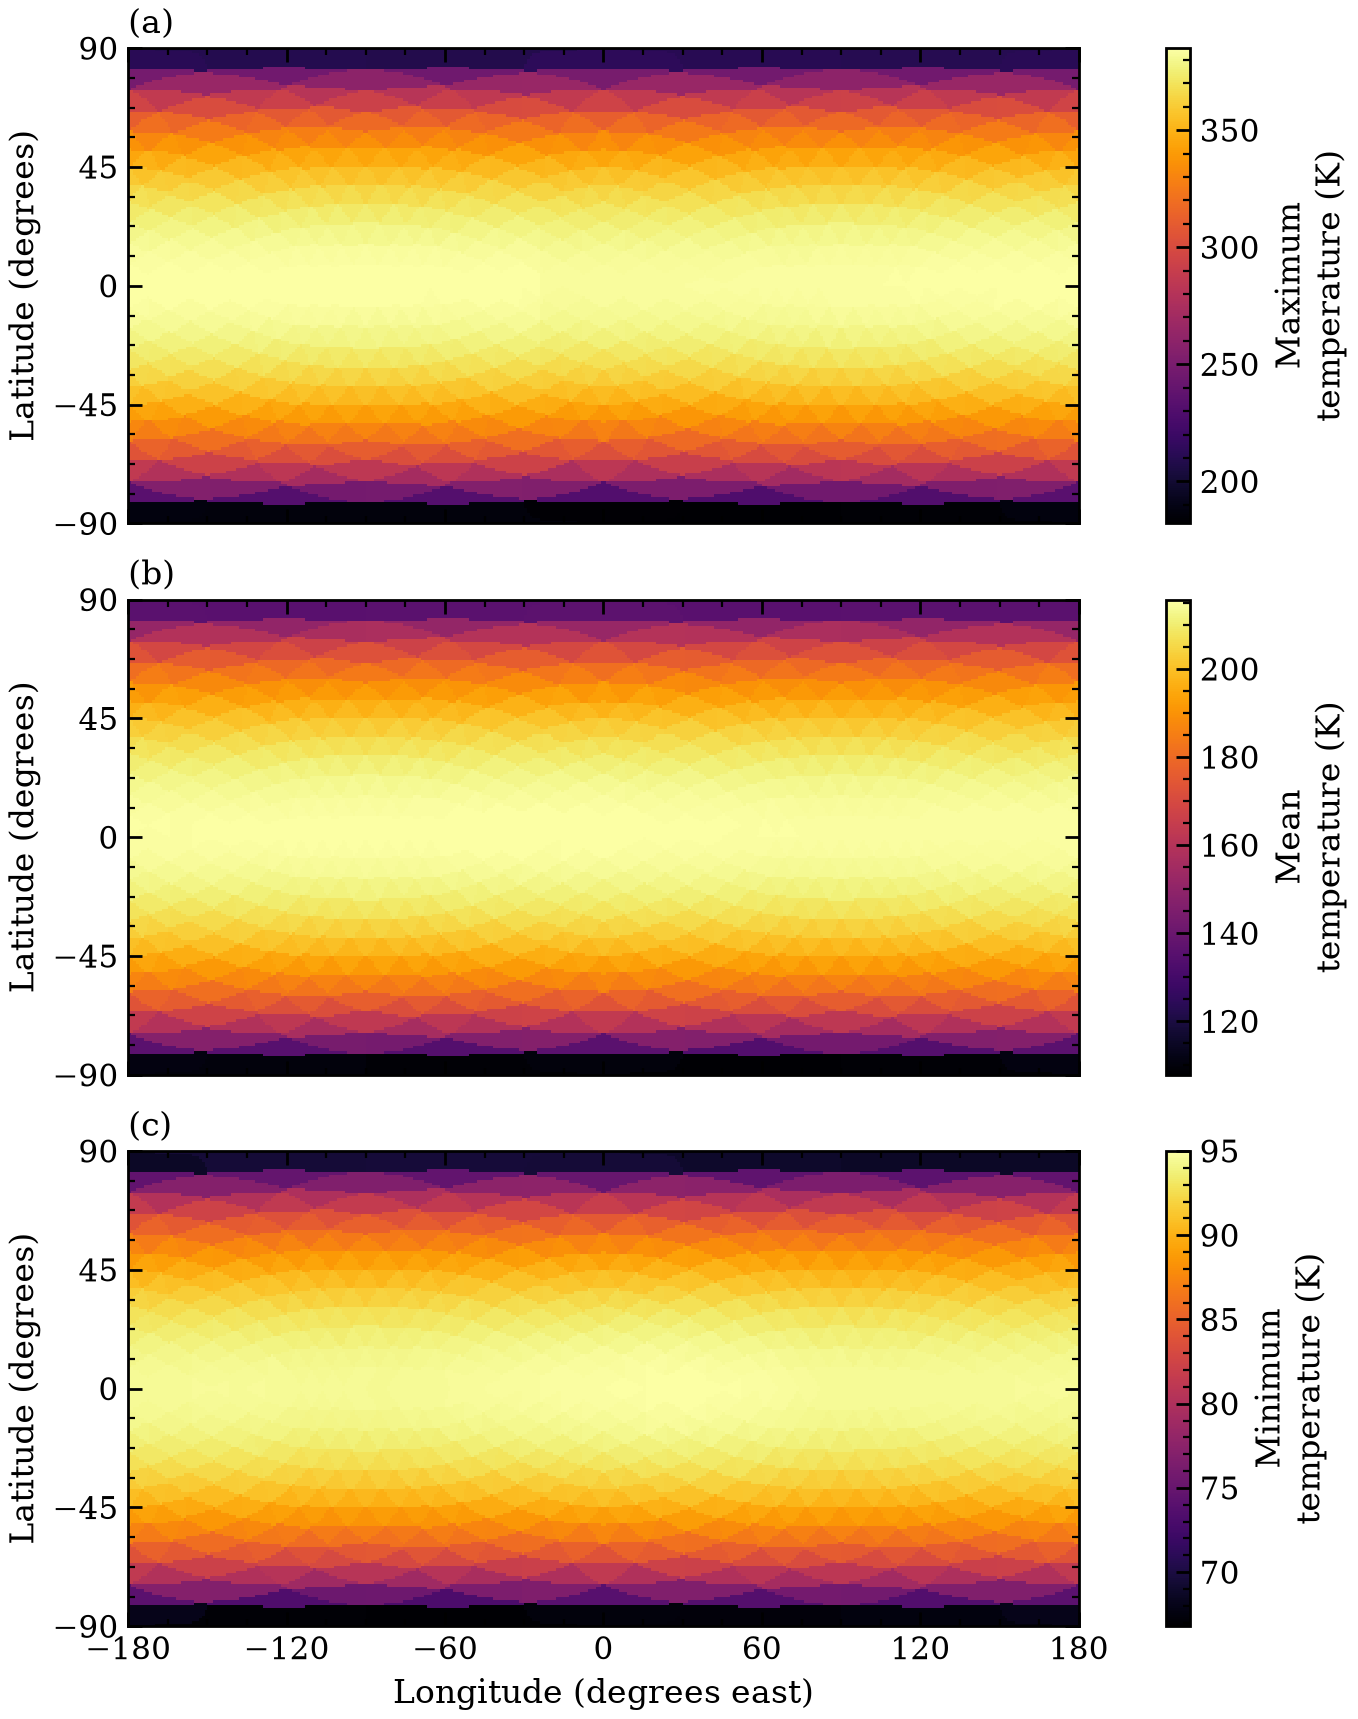
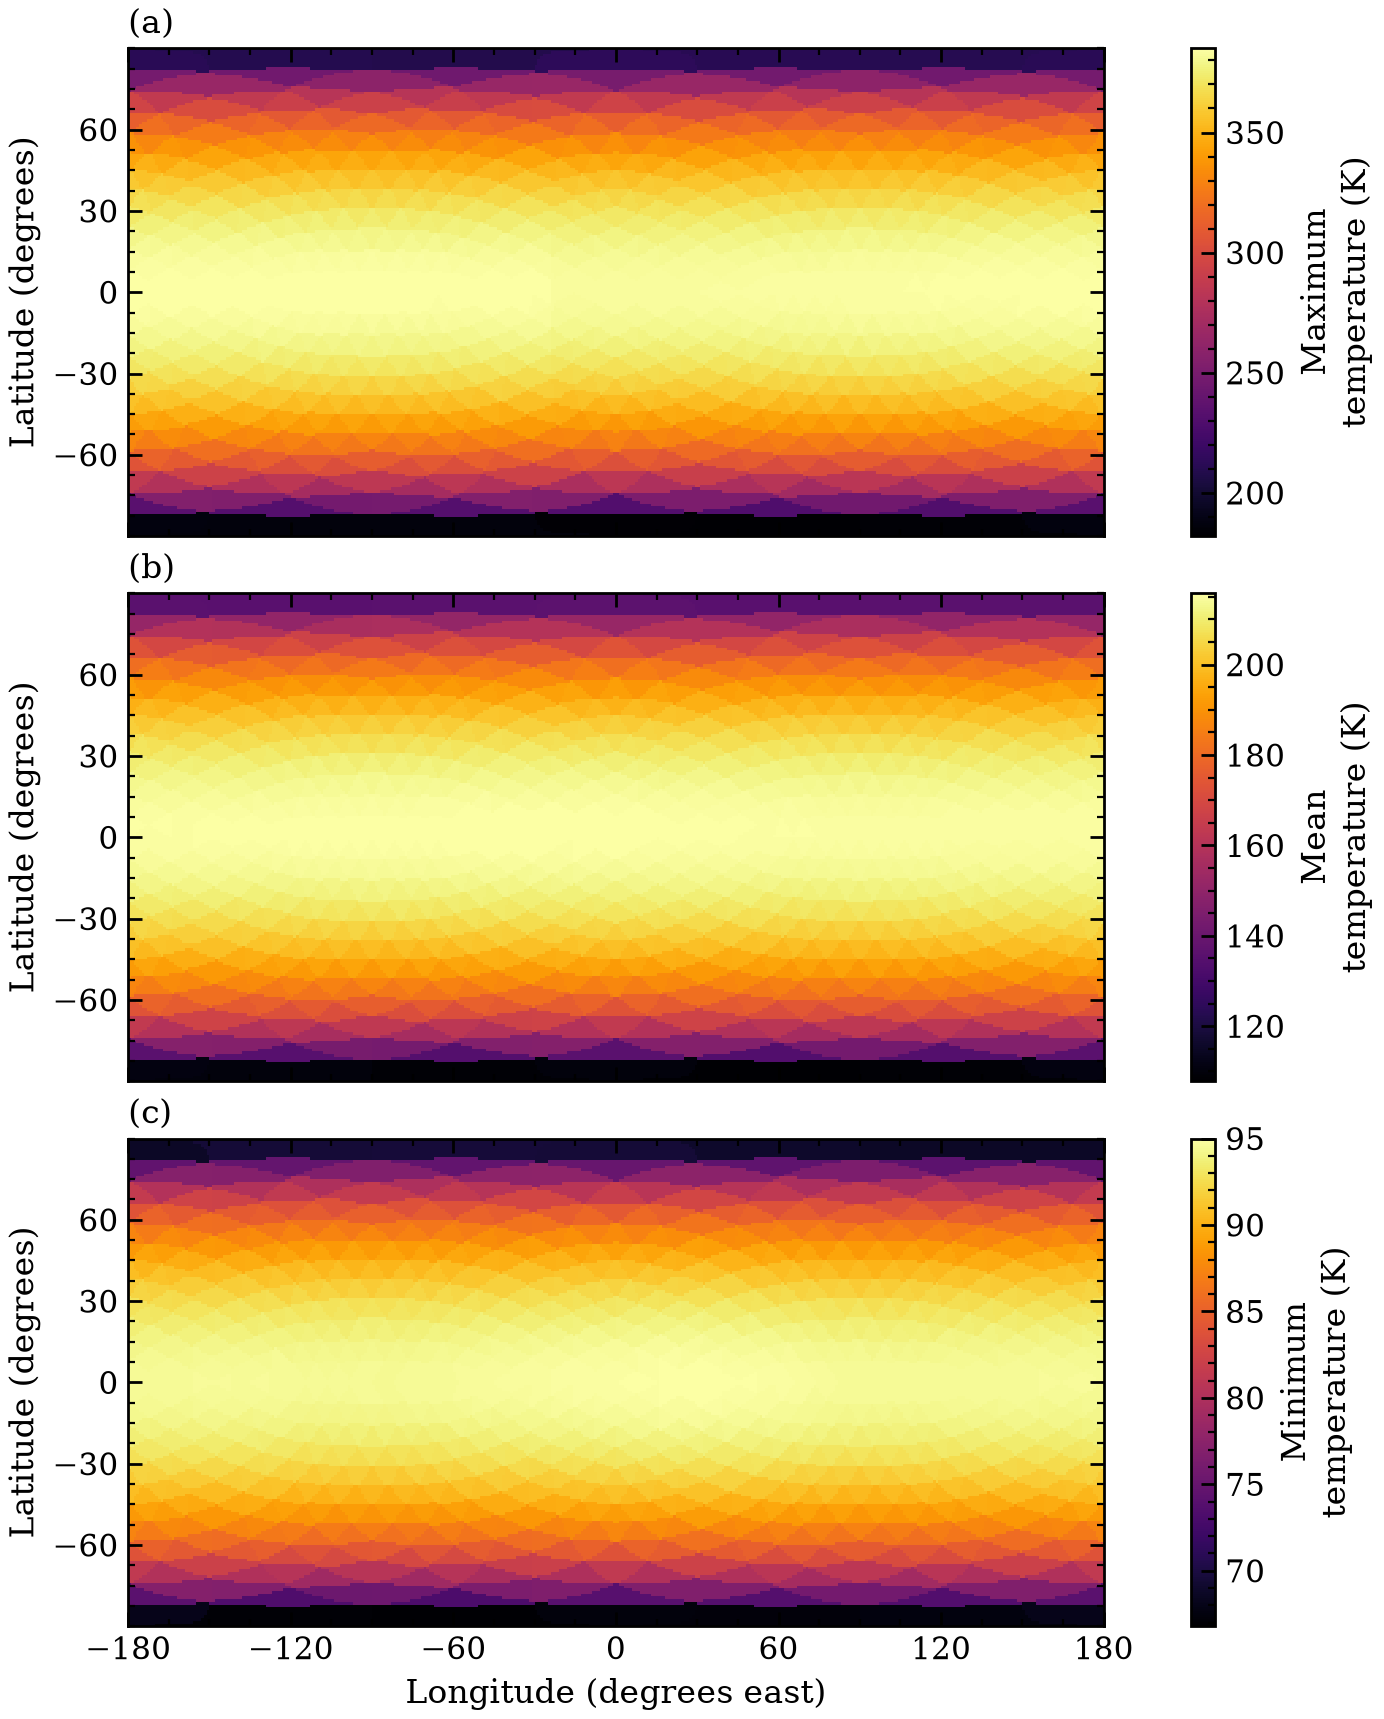
docs: latitude axes of the global maps labeled to 60 degrees so -90 does not touch -180
Tutorial 1 maps and the tutorial 6 sphere map; the tutorial 1 maps are now
6.92 in wide and embedded at 96 percent of the column.

diff --git a/docs/tutorials/01_quickstart.md b/docs/tutorials/01_quickstart.md
@@ -125,7 +125,7 @@ for ax, moment, name in zip(axes, ("max", "avg", "min"), ("Maximum", "Mean", "Mi
     plots.colorbar(fig, art, ax, label=f"{name}\ntemperature (K)")
     ax.set_ylabel("Latitude (degrees)")
     ax.set_aspect("equal")
-    ax.set_yticks([-90, -45, 0, 45, 90])
+    ax.set_yticks([-60, -30, 0, 30, 60])      # no -90 label against the -180 below it
 axes[-1].set_xticks(np.arange(-180, 181, 60))
 axes[-1].set_xlabel("Longitude (degrees east)")
 plots.panel_labels(axes)
@@ -159,7 +159,7 @@ face 1016: center at latitude 84.89, longitude 0.00
 face 1204: center at latitude -84.89, longitude 0.00
 ```
 
-<img src="images/01_moon_temperature_maps.png" alt="Maximum, mean and minimum surface temperature of the global Moon over one lunar day" width="94%">
+<img src="images/01_moon_temperature_maps.png" alt="Maximum, mean and minimum surface temperature of the global Moon over one lunar day" width="96%">
 
 The three maps vary with latitude only, as they must for a smooth sphere of uniform material in
 which every meridian receives the same noon. The faceted edges are the 1,280 faces of the mesh.

diff --git a/docs/tutorials/06_asteroids.md b/docs/tutorials/06_asteroids.md
@@ -217,7 +217,7 @@ ax.plot(sun_lon, sun_lat, marker="*", color="white", markeredgecolor="black",
 plots.colorbar(fig, art, ax, "Surface temperature (K)")
 ax.set_aspect("equal")
 ax.set_xticks(np.arange(-180, 181, 60))
-ax.set_yticks([-90, -45, 0, 45, 90])
+ax.set_yticks([-60, -30, 0, 30, 60])          # no -90 label against the -180 below it
 ax.set_xlabel("Longitude (degrees east)")
 ax.set_ylabel("Latitude (degrees)")
 plots.save(fig, "output/asteroid_sphere/map.png", dpi=200)
